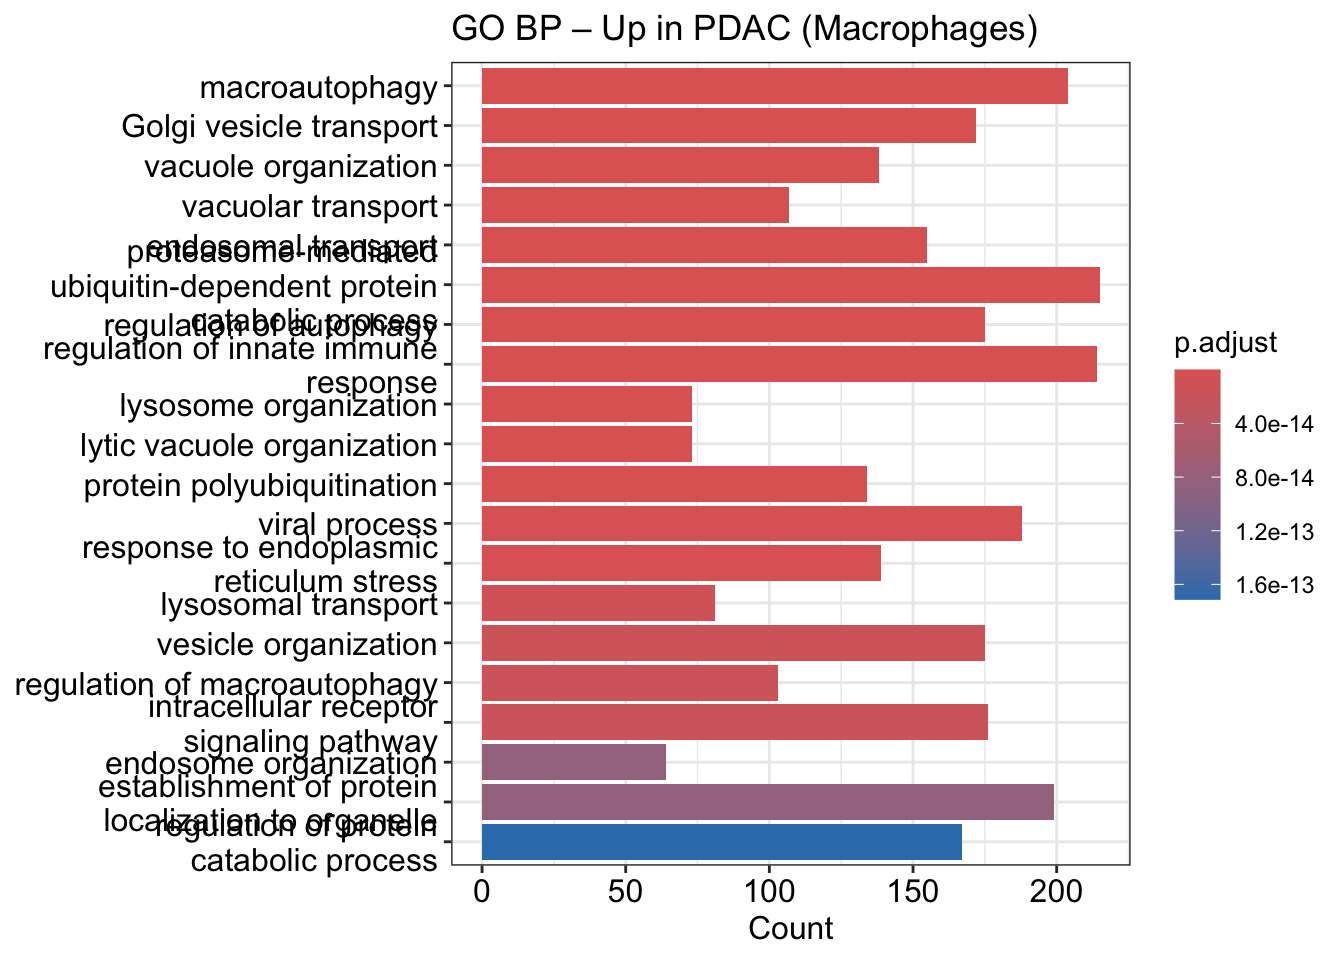
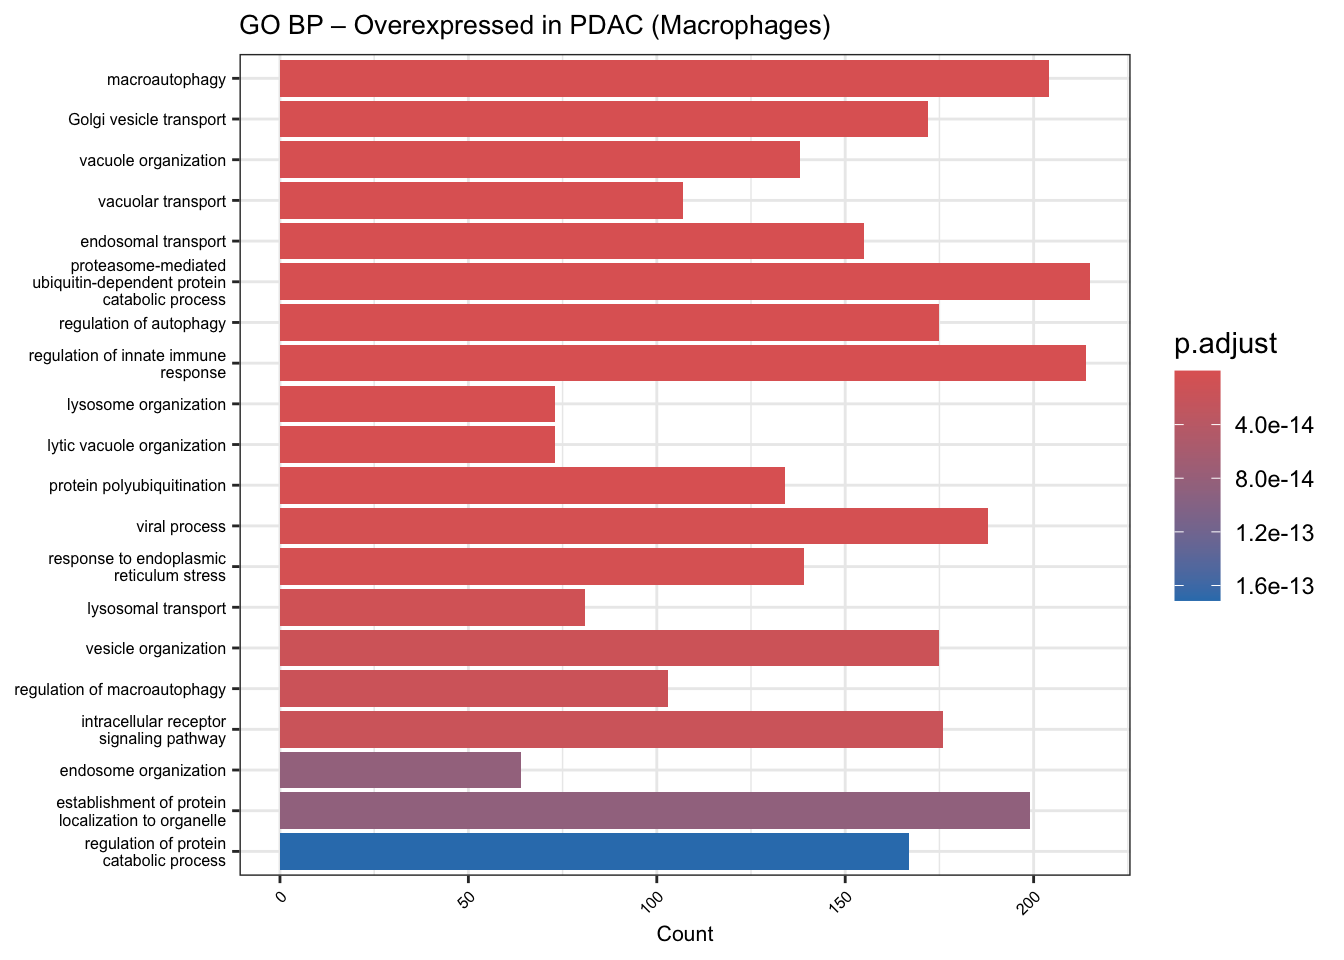
update

diff --git a/TD_scRNA-seq_Seurat_Advanced.html b/TD_scRNA-seq_Seurat_Advanced.html
@@ -574,21 +574,21 @@ condition</li>
 ## Number of communities: 15
 ## Elapsed time: 1 seconds</code></pre>
 <pre class="r"><code>seurat.norm.pdac.multi &lt;- RunUMAP(seurat.norm.pdac.multi, reduction = &quot;harmony&quot;, dims = 1:30)</code></pre>
-<pre><code>## 09:30:22 UMAP embedding parameters a = 0.9922 b = 1.112</code></pre>
-<pre><code>## 09:30:22 Read 14180 rows and found 30 numeric columns</code></pre>
-<pre><code>## 09:30:22 Using Annoy for neighbor search, n_neighbors = 30</code></pre>
-<pre><code>## 09:30:22 Building Annoy index with metric = cosine, n_trees = 50</code></pre>
+<pre><code>## 13:29:15 UMAP embedding parameters a = 0.9922 b = 1.112</code></pre>
+<pre><code>## 13:29:15 Read 14180 rows and found 30 numeric columns</code></pre>
+<pre><code>## 13:29:15 Using Annoy for neighbor search, n_neighbors = 30</code></pre>
+<pre><code>## 13:29:15 Building Annoy index with metric = cosine, n_trees = 50</code></pre>
 <pre><code>## 0%   10   20   30   40   50   60   70   80   90   100%</code></pre>
 <pre><code>## [----|----|----|----|----|----|----|----|----|----|</code></pre>
 <pre><code>## **************************************************|
-## 09:30:23 Writing NN index file to temp file /var/folders/91/6skgr68s5ls_dhqfdzs02_pm00013r/T//RtmpgQSxGF/file9191671b458f
-## 09:30:23 Searching Annoy index using 1 thread, search_k = 3000
-## 09:30:26 Annoy recall = 100%
-## 09:30:26 Commencing smooth kNN distance calibration using 1 thread with target n_neighbors = 30
-## 09:30:26 Initializing from normalized Laplacian + noise (using RSpectra)
-## 09:30:27 Commencing optimization for 200 epochs, with 619108 positive edges
-## 09:30:27 Using rng type: pcg
-## 09:30:32 Optimization finished</code></pre>
+## 13:29:15 Writing NN index file to temp file /var/folders/91/6skgr68s5ls_dhqfdzs02_pm00013r/T//RtmpdWTlTe/file10909708b59c1
+## 13:29:15 Searching Annoy index using 1 thread, search_k = 3000
+## 13:29:18 Annoy recall = 100%
+## 13:29:18 Commencing smooth kNN distance calibration using 1 thread with target n_neighbors = 30
+## 13:29:19 Initializing from normalized Laplacian + noise (using RSpectra)
+## 13:29:19 Commencing optimization for 200 epochs, with 619108 positive edges
+## 13:29:19 Using rng type: pcg
+## 13:29:25 Optimization finished</code></pre>
 <pre class="r"><code>DimPlot(seurat.norm.pdac.multi, reduction = &quot;umap&quot;)</code></pre>
 <p><img src="TD_scRNA-seq_Seurat_Advanced_files/figure-html/harmony_umap_clustering-1.png" width="672" /></p>
 <pre class="r"><code>DimPlot(seurat.norm.pdac.multi, reduction = &quot;umap&quot;, split.by = &quot;condition&quot;)</code></pre>
@@ -800,20 +800,22 @@ immunitaire</li>
 <pre class="r"><code>ref &lt;- celldex::HumanPrimaryCellAtlasData()</code></pre>
 <ol style="list-style-type: decimal">
 <li>Ecrire l’appel de fonction <code>SingleR</code> pour annoter des
-cellules. Par défaut, <code>SingleR</code> est lent, comment accélérer
-?</li>
+cellules au niveau <code>label.main</code>. Par défaut,
+<code>SingleR</code> est lent, comment accélérer ?</li>
 <li>Afficher les résultats de l’objet obtenu avec
 <code>table</code>.</li>
 </ol>
 <div id="solution-2" class="section level3" number="1.6.1">
 <h3><span class="header-section-number">1.6.1</span> Solution</h3>
-<pre class="r"><code>pred &lt;- SingleR(
+<pre class="r"><code># 1.
+pred &lt;- SingleR(
   test = sce,
   ref = ref,                # La base de référence
   labels = ref$label.main,  # Niveau d’annotation principal
   num.threads = 8           # 8 coeurs en parallèle pour accélerer
 )
 
+# 2.
 head(pred$labels)</code></pre>
 <pre><code>## [1] &quot;Tissue_stem_cells&quot; &quot;Endothelial_cells&quot; &quot;Hepatocytes&quot;      
 ## [4] &quot;T_cells&quot;           &quot;Epithelial_cells&quot;  &quot;Macrophage&quot;</code></pre>
@@ -859,6 +861,7 @@ résultats dans l’objet <code>Seurat</code> dans une colonne
 <h3><span class="header-section-number">1.7.1</span> Solution</h3>
 <pre class="r"><code># Ajouter les labels dans le meta.data
 seurat.norm.pdac.multi[[&#39;SingleR.labels&#39;]]  &lt;- pred$labels
+
 
 # Vérifie que la colonne a bien été ajoutée
 head(as.matrix(seurat.norm.pdac.multi@meta.data))</code></pre>
@@ -984,7 +987,8 @@ Seurat.</li>
   reduction = &quot;umap&quot;
 )
 
-dimpplot.seurat.norm.pdac.multi &lt;- DimPlot(seurat.norm.pdac.multi, reduction = &quot;umap&quot;, pt.size = .1)
+
+dimpplot.seurat.norm.pdac.multi &lt;- DimPlot(seurat.norm.pdac.multi, reduction = &quot;umap&quot;, pt.size = .1, label = TRUE, repel = TRUE)
 
 plot(dimpplot.seurat.norm.pdac.multi)
 
@@ -1061,21 +1065,21 @@ complète sur les macrophages pour découvrir des sous-populations</h2>
 ## Number of communities: 5
 ## Elapsed time: 0 seconds</code></pre>
 <pre class="r"><code>seurat.norm.pdac.multi.macrophages &lt;- RunUMAP(seurat.norm.pdac.multi.macrophages, reduction = &quot;pca&quot;, dims = 1:10)</code></pre>
-<pre><code>## 09:32:03 UMAP embedding parameters a = 0.9922 b = 1.112</code></pre>
-<pre><code>## 09:32:03 Read 6520 rows and found 10 numeric columns</code></pre>
-<pre><code>## 09:32:03 Using Annoy for neighbor search, n_neighbors = 30</code></pre>
-<pre><code>## 09:32:03 Building Annoy index with metric = cosine, n_trees = 50</code></pre>
+<pre><code>## 13:31:10 UMAP embedding parameters a = 0.9922 b = 1.112</code></pre>
+<pre><code>## 13:31:10 Read 6520 rows and found 10 numeric columns</code></pre>
+<pre><code>## 13:31:10 Using Annoy for neighbor search, n_neighbors = 30</code></pre>
+<pre><code>## 13:31:10 Building Annoy index with metric = cosine, n_trees = 50</code></pre>
 <pre><code>## 0%   10   20   30   40   50   60   70   80   90   100%</code></pre>
 <pre><code>## [----|----|----|----|----|----|----|----|----|----|</code></pre>
 <pre><code>## **************************************************|
-## 09:32:03 Writing NN index file to temp file /var/folders/91/6skgr68s5ls_dhqfdzs02_pm00013r/T//RtmpgQSxGF/file9191bf991f8
-## 09:32:03 Searching Annoy index using 1 thread, search_k = 3000
-## 09:32:04 Annoy recall = 100%
-## 09:32:05 Commencing smooth kNN distance calibration using 1 thread with target n_neighbors = 30
-## 09:32:06 Initializing from normalized Laplacian + noise (using RSpectra)
-## 09:32:06 Commencing optimization for 500 epochs, with 263094 positive edges
-## 09:32:06 Using rng type: pcg
-## 09:32:12 Optimization finished</code></pre>
+## 13:31:10 Writing NN index file to temp file /var/folders/91/6skgr68s5ls_dhqfdzs02_pm00013r/T//RtmpdWTlTe/file10909295766a4
+## 13:31:10 Searching Annoy index using 1 thread, search_k = 3000
+## 13:31:11 Annoy recall = 100%
+## 13:31:12 Commencing smooth kNN distance calibration using 1 thread with target n_neighbors = 30
+## 13:31:13 Initializing from normalized Laplacian + noise (using RSpectra)
+## 13:31:13 Commencing optimization for 500 epochs, with 263094 positive edges
+## 13:31:13 Using rng type: pcg
+## 13:31:19 Optimization finished</code></pre>
 <pre class="r"><code>DimPlot(seurat.norm.pdac.multi.macrophages, reduction = &quot;umap&quot;)</code></pre>
 <p><img src="TD_scRNA-seq_Seurat_Advanced_files/figure-html/umap_macrophage-3.png" width="672" /></p>
 <pre class="r"><code>DimPlot(seurat.norm.pdac.multi.macrophages, reduction = &quot;umap&quot;, split.by = &quot;condition&quot;)</code></pre>
@@ -1097,7 +1101,8 @@ sains et ceux identifiés dans les PDAC.</p>
 <li>Représenter les gènes différentiellement exprimes sous forme de
 <strong>heatmap</strong>.</li>
 <li>Identifier <strong>les pathways GO surexprimés dans les
-PDAC</strong> avec <code>ClusterProfiler</code>.</li>
+PDAC</strong> avec <code>ClusterProfiler</code>. Utiliser la fonction
+<code>bitr</code>pour convertir les SYMBOL vers ENTREZID.</li>
 </ol>
 <div id="solution-5" class="section level3" number="1.11.1">
 <h3><span class="header-section-number">1.11.1</span> 1. Solution:</h3>
@@ -1267,13 +1272,14 @@ EnhancedVolcano(
 <pre><code>## The following objects are masked from &#39;package:base&#39;:
 ## 
 ##     intersect, setdiff, setequal, union</code></pre>
-<pre class="r"><code># 1) Sélectionner les gènes up dans PDAC (log2FC &gt; 0, p.adj &lt; 0.05)
+<pre class="r"><code># 1) Sélectionner les gènes sur-exprimés dans PDAC (log2FC &gt; 0, p.adj &lt; 0.05)
 up_genes_pdac &lt;- de_pdac_vs_norm %&gt;%
   filter(avg_log2FC &gt; 0 &amp; p_val_adj &lt; 0.05) %&gt;%
   pull(gene) %&gt;%
   unique()
 
-# 2) Convertir SYMBOL → ENTREZID pour clusterProfiler
+# 2) Convertir SYMBOL vers ENTREZID pour clusterProfiler.
+# bitr = Biological ID Translator
 gene_map &lt;- bitr(up_genes_pdac, fromType = &quot;SYMBOL&quot;, toType = &quot;ENTREZID&quot;, OrgDb = org.Hs.eg.db)</code></pre>
 <pre><code>## &#39;select()&#39; returned 1:many mapping between keys and columns</code></pre>
 <pre class="r"><code>entrez_up &lt;- unique(gene_map$ENTREZID)
@@ -1395,11 +1401,27 @@ catabolic process</td>
 </tr>
 </tbody>
 </table>
-<pre class="r"><code># Barplot
-barplot(ego, showCategory = 20, title = &quot;GO BP – Up in PDAC (Macrophages)&quot;)</code></pre>
+<pre class="r"><code># Barplot. The theme is to reduce font size.
+p &lt;- barplot(ego, showCategory = 20, title = &quot;GO BP – Overexpressed in PDAC (Macrophages)&quot;) +
+  theme(
+    axis.text.x = element_text(size = 6, angle = 45, hjust = 1),
+    axis.text.y = element_text(size = 6),
+    axis.title.x = element_text(size = 8),
+    axis.title.y = element_text(size = 8),
+    plot.title  = element_text(size = 10)
+  )
+p</code></pre>
 <p><img src="TD_scRNA-seq_Seurat_Advanced_files/figure-html/de_macrophages_clusterprofiler-1.png" width="672" /></p>
-<pre class="r"><code># Dotplot (alternative)
-dotplot(ego, showCategory = 20, title = &quot;GO BP – Up in PDAC (Macrophages)&quot;)</code></pre>
+<pre class="r"><code># Dotplot (alternative). The theme is to reduce font size.
+p &lt;- dotplot(ego, showCategory = 20, title = &quot;GO BP – Overexpressed in PDAC (Macrophages)&quot;)  +
+  theme(
+    axis.text.x = element_text(size = 6, angle = 45, hjust = 1),
+    axis.text.y = element_text(size = 6),
+    axis.title.x = element_text(size = 8),
+    axis.title.y = element_text(size = 8),
+    plot.title  = element_text(size = 10)
+  )
+p</code></pre>
 <p><img src="TD_scRNA-seq_Seurat_Advanced_files/figure-html/de_macrophages_clusterprofiler-2.png" width="672" /></p>
 </div>
 </div>
@@ -1602,21 +1624,21 @@ seurat.norm.pdac.multi &lt;- ScaleData(
 ## Number of communities: 24
 ## Elapsed time: 1 seconds</code></pre>
 <pre class="r"><code>seurat.norm.pdac.multi &lt;- RunUMAP(seurat.norm.pdac.multi, dims = 1:20)</code></pre>
-<pre><code>## 09:37:45 UMAP embedding parameters a = 0.9922 b = 1.112</code></pre>
-<pre><code>## 09:37:45 Read 14180 rows and found 20 numeric columns</code></pre>
-<pre><code>## 09:37:45 Using Annoy for neighbor search, n_neighbors = 30</code></pre>
-<pre><code>## 09:37:45 Building Annoy index with metric = cosine, n_trees = 50</code></pre>
+<pre><code>## 13:36:57 UMAP embedding parameters a = 0.9922 b = 1.112</code></pre>
+<pre><code>## 13:36:57 Read 14180 rows and found 20 numeric columns</code></pre>
+<pre><code>## 13:36:57 Using Annoy for neighbor search, n_neighbors = 30</code></pre>
+<pre><code>## 13:36:57 Building Annoy index with metric = cosine, n_trees = 50</code></pre>
 <pre><code>## 0%   10   20   30   40   50   60   70   80   90   100%</code></pre>
 <pre><code>## [----|----|----|----|----|----|----|----|----|----|</code></pre>
 <pre><code>## **************************************************|
-## 09:37:46 Writing NN index file to temp file /var/folders/91/6skgr68s5ls_dhqfdzs02_pm00013r/T//RtmpgQSxGF/file9191448c31aa
-## 09:37:46 Searching Annoy index using 1 thread, search_k = 3000
-## 09:37:49 Annoy recall = 100%
-## 09:37:50 Commencing smooth kNN distance calibration using 1 thread with target n_neighbors = 30
-## 09:37:52 Initializing from normalized Laplacian + noise (using RSpectra)
-## 09:37:52 Commencing optimization for 200 epochs, with 601322 positive edges
-## 09:37:52 Using rng type: pcg
-## 09:37:58 Optimization finished</code></pre>
+## 13:36:58 Writing NN index file to temp file /var/folders/91/6skgr68s5ls_dhqfdzs02_pm00013r/T//RtmpdWTlTe/file10909387fbc00
+## 13:36:58 Searching Annoy index using 1 thread, search_k = 3000
+## 13:37:00 Annoy recall = 100%
+## 13:37:01 Commencing smooth kNN distance calibration using 1 thread with target n_neighbors = 30
+## 13:37:02 Initializing from normalized Laplacian + noise (using RSpectra)
+## 13:37:03 Commencing optimization for 200 epochs, with 601322 positive edges
+## 13:37:03 Using rng type: pcg
+## 13:37:09 Optimization finished</code></pre>
 <pre class="r"><code>DimPlot(seurat.norm.pdac.multi, reduction = &quot;umap&quot;, group.by = &quot;Phase&quot;)</code></pre>
 <p><img src="TD_scRNA-seq_Seurat_Advanced_files/figure-html/cc_scaledata-1.png" width="672" /></p>
 <pre class="r"><code># Après correction: on peut vérifier que le cycle cellulaire ne structure plus l&#39;UMAP avec les marqueurs du cyle **MKI67**, **TOP2A**, **PCNA** (`FeaturePlot`)
@@ -1691,21 +1713,21 @@ seurat.norm.pdac.multi.diffcompensated &lt;- ScaleData(seurat.norm.pdac.multi.di
 ## Number of communities: 24
 ## Elapsed time: 1 seconds</code></pre>
 <pre class="r"><code>seurat.norm.pdac.multi.diffcompensated &lt;- RunUMAP(seurat.norm.pdac.multi.diffcompensated, dims = 1:20)</code></pre>
-<pre><code>## 09:38:37 UMAP embedding parameters a = 0.9922 b = 1.112</code></pre>
-<pre><code>## 09:38:37 Read 14180 rows and found 20 numeric columns</code></pre>
-<pre><code>## 09:38:37 Using Annoy for neighbor search, n_neighbors = 30</code></pre>
-<pre><code>## 09:38:37 Building Annoy index with metric = cosine, n_trees = 50</code></pre>
+<pre><code>## 13:37:44 UMAP embedding parameters a = 0.9922 b = 1.112</code></pre>
+<pre><code>## 13:37:44 Read 14180 rows and found 20 numeric columns</code></pre>
+<pre><code>## 13:37:44 Using Annoy for neighbor search, n_neighbors = 30</code></pre>
+<pre><code>## 13:37:44 Building Annoy index with metric = cosine, n_trees = 50</code></pre>
 <pre><code>## 0%   10   20   30   40   50   60   70   80   90   100%</code></pre>
 <pre><code>## [----|----|----|----|----|----|----|----|----|----|</code></pre>
 <pre><code>## **************************************************|
-## 09:38:38 Writing NN index file to temp file /var/folders/91/6skgr68s5ls_dhqfdzs02_pm00013r/T//RtmpgQSxGF/file91914085d359
-## 09:38:38 Searching Annoy index using 1 thread, search_k = 3000
-## 09:38:40 Annoy recall = 100%
-## 09:38:41 Commencing smooth kNN distance calibration using 1 thread with target n_neighbors = 30
-## 09:38:42 Initializing from normalized Laplacian + noise (using RSpectra)
-## 09:38:43 Commencing optimization for 200 epochs, with 598440 positive edges
-## 09:38:43 Using rng type: pcg
-## 09:38:49 Optimization finished</code></pre>
+## 13:37:45 Writing NN index file to temp file /var/folders/91/6skgr68s5ls_dhqfdzs02_pm00013r/T//RtmpdWTlTe/file1090945473bea
+## 13:37:45 Searching Annoy index using 1 thread, search_k = 3000
+## 13:37:48 Annoy recall = 100%
+## 13:37:48 Commencing smooth kNN distance calibration using 1 thread with target n_neighbors = 30
+## 13:37:49 Initializing from normalized Laplacian + noise (using RSpectra)
+## 13:37:50 Commencing optimization for 200 epochs, with 598440 positive edges
+## 13:37:50 Using rng type: pcg
+## 13:37:56 Optimization finished</code></pre>
 <pre class="r"><code>DimPlot(seurat.norm.pdac.multi.diffcompensated, reduction = &quot;umap&quot;, group.by = &quot;Phase&quot;)</code></pre>
 <p><img src="TD_scRNA-seq_Seurat_Advanced_files/figure-html/cc_scaledata_diff-1.png" width="672" /></p>
 <pre class="r"><code># Après correction: on peut vérifier que le cycle cellulaire ne structure plus l&#39;UMAP avec les marqueurs du cyle **MKI67**, **TOP2A**, **PCNA** (`FeaturePlot`)
